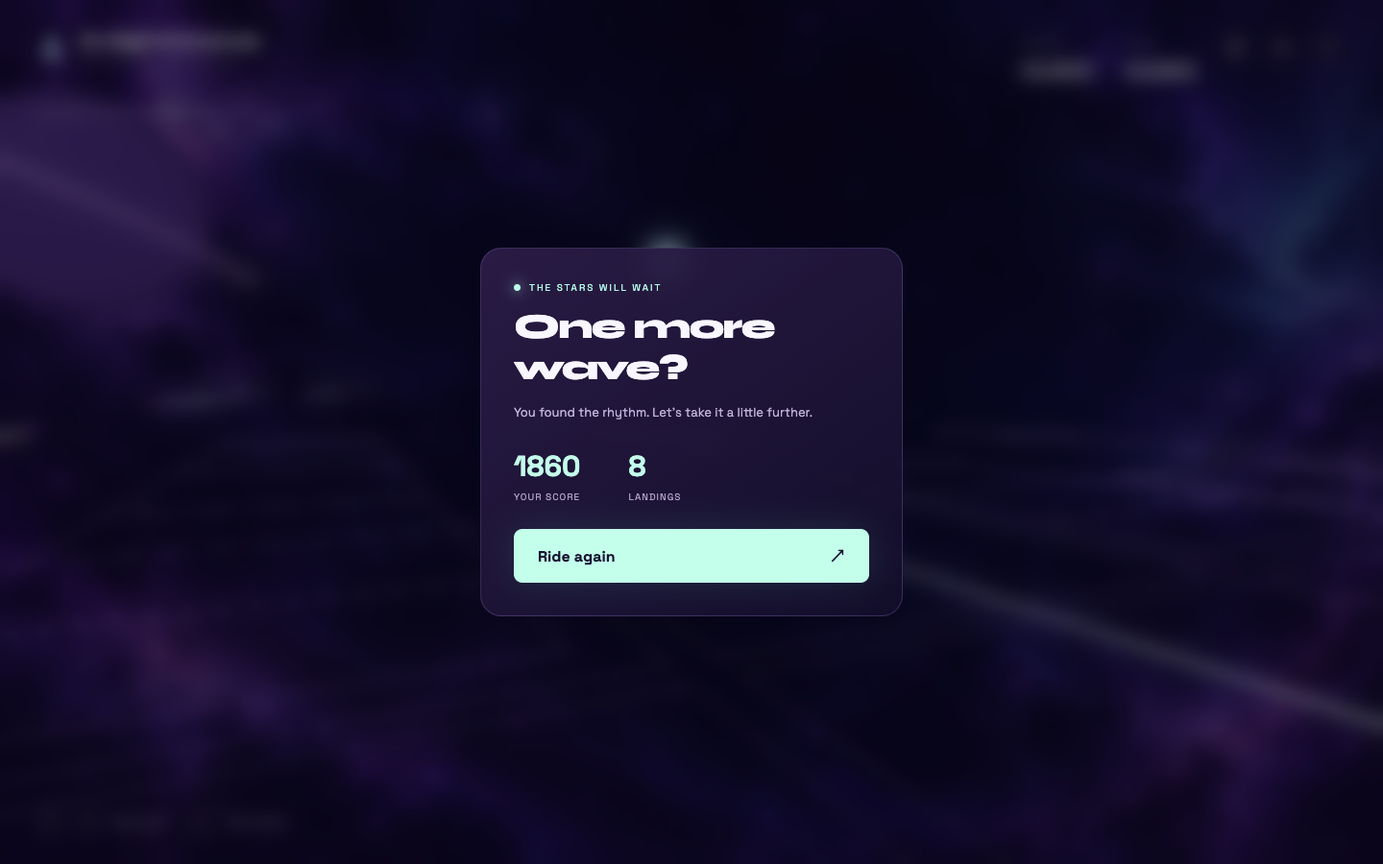
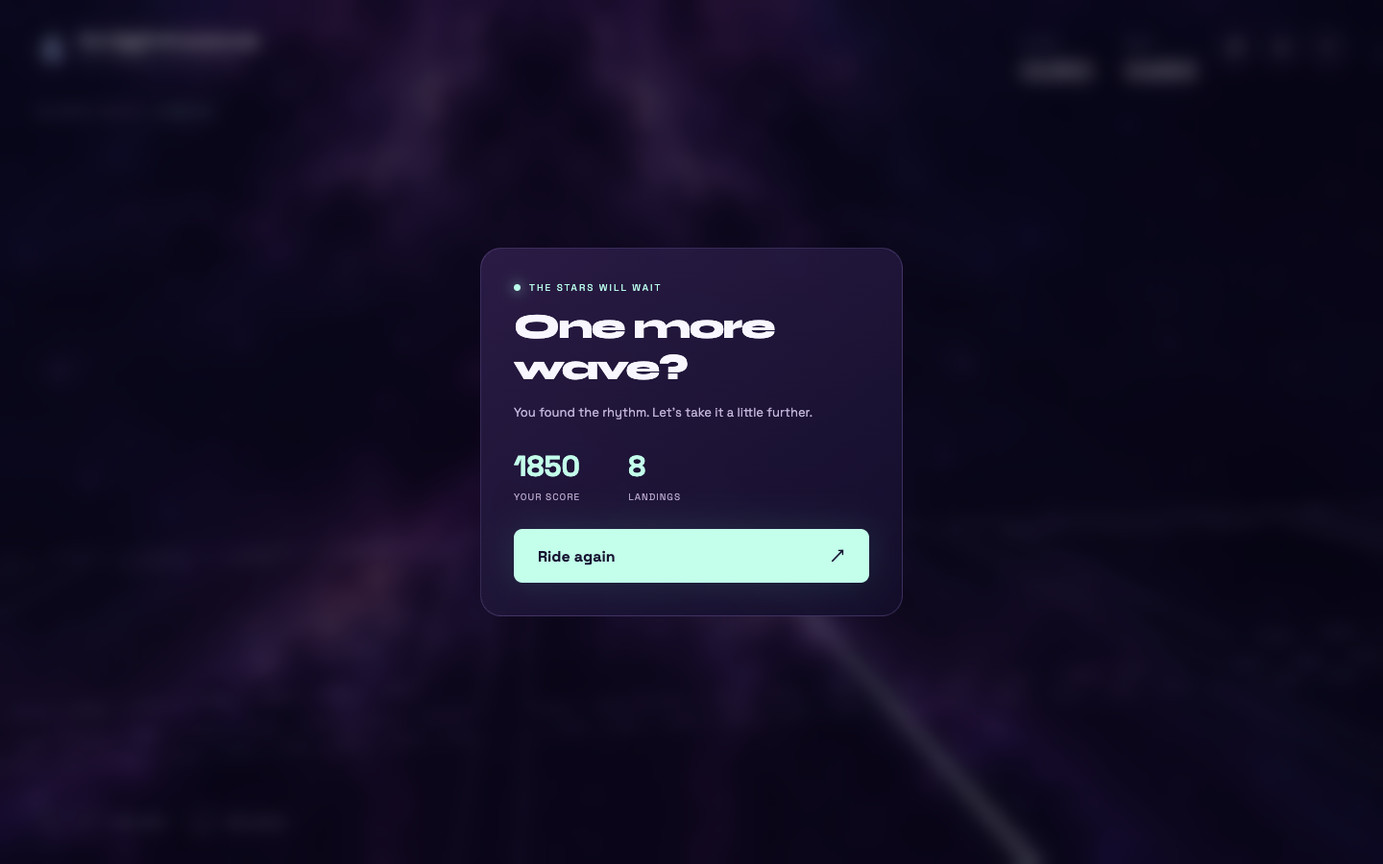
fix(game): align camera and roads with knight travel

diff --git a/src/main.js b/src/main.js
@@ -12,11 +12,10 @@ import { HemisphericLight } from '@babylonjs/core/Lights/hemisphericLight';
 import { PointLight } from '@babylonjs/core/Lights/pointLight';
 import { GlowLayer } from '@babylonjs/core/Layers/glowLayer';
 import { TransformNode } from '@babylonjs/core/Meshes/transformNode';
-import { Layer } from '@babylonjs/core/Layers/layer';
 import { Texture } from '@babylonjs/core/Materials/Textures/texture';
 import { ParticleSystem } from '@babylonjs/core/Particles/particleSystem';
 import earcut from 'earcut';
-import { knightDestination, isLandingMatch, targetForJump, knightPath, flightPoint } from './rules.js';
+import { knightDestination, isLandingMatch, targetForJump, knightPath, flightPoint, flightHeading, rotateGrid, roadLanding } from './rules.js';
 import { Soundtrack } from './audio.js';
 
 const asset=name=>`${import.meta.env.BASE_URL}${name}`;
@@ -38,7 +37,7 @@ try{engine=new Engine(canvas,true,{preserveDrawingBuffer:false,stencil:true,powe
 engine.setHardwareScalingLevel(1/Math.min(window.devicePixelRatio||1,2));
 scene.imageProcessingConfiguration.toneMappingEnabled=true;scene.imageProcessingConfiguration.exposure=.85;
 scene.clearColor=new Color4(.028,.014,.07,1);scene.fogMode=Scene.FOGMODE_EXP2;scene.fogColor=new Color3(.08,.025,.16);scene.fogDensity=.004;
-const camera=new FreeCamera('chase',new Vector3(0,7,-15),scene);camera.minZ=.1;camera.maxZ=1200;camera.fov=1.03;
+const camera=new FreeCamera('chase',new Vector3(0,7,-15),scene);camera.minZ=.1;camera.maxZ=1200;camera.fov=.88;
 const hemi=new HemisphericLight('soft light',new Vector3(-.4,1,-.4),scene);hemi.intensity=.65;hemi.diffuse=new Color3(.76,.83,1);hemi.groundColor=new Color3(.25,.08,.43);
 const rim=new PointLight('mint rim',new Vector3(0,8,-4),scene);rim.diffuse=new Color3(.3,1,.83);rim.intensity=.45;rim.range=38;
 const glow=new GlowLayer('neon',scene,{mainTextureRatio:.4,blurKernelSize:32});glow.intensity=.65;
@@ -48,7 +47,8 @@ const roadMats=palette.map((c,i)=>material('rainbow '+i,c,.25));
 const dark=material('underside','#211333',.15),stripe=material('chess tile','#e6cbff',.4),mint=material('mint neon','#8dffe1',1.6),pink=material('pink neon','#fd8bdf',1.5),gold=material('landing gold','#ffe6a3',1.5),white=material('porcelain','#e9fff5',.22),purple=material('mane','#583680',.3);
 
 // Dedicated sky artwork stays behind the 3D course and planets.
-const nebula=new Layer('cosmic artwork',asset('cosmic-sky.png'),scene,true);nebula.color=new Color4(.50,.44,.65,1);
+const sky=MeshBuilder.CreateSphere('world sky',{diameter:1800,segments:32,sideOrientation:Mesh.BACKSIDE},scene);
+const skyMat=new StandardMaterial('cosmic sky',scene);skyMat.disableLighting=true;skyMat.emissiveTexture=new Texture(asset('cosmic-sky.png'),scene);skyMat.emissiveColor=Color3.Black();skyMat.emissiveTexture.level=.55;skyMat.emissiveTexture.wrapU=Texture.MIRROR_ADDRESSMODE;skyMat.emissiveTexture.uScale=4;skyMat.emissiveTexture.wrapV=Texture.MIRROR_ADDRESSMODE;skyMat.emissiveTexture.vScale=3;skyMat.diffuseColor=Color3.Black();sky.material=skyMat;sky.infiniteDistance=true;sky.applyFog=false;sky.isPickable=false;glow.addExcludedMesh(sky);
 let seed=512;
 function rand(){seed=(seed*1664525+1013904223)>>>0;return seed/4294967296;}
 const planet=MeshBuilder.CreateSphere('lavender planet',{diameter:60,segments:32},scene);planet.material=material('planet','#604292',.4);planet.position.set(-92,52,300);
@@ -58,14 +58,41 @@ const halo=MeshBuilder.CreateTorus('moon halo',{diameter:28,thickness:.28,tessel
 const scenery=new TransformNode('cosmos',scene);planet.parent=planetRing.parent=moon.parent=halo.parent=scenery;
 function box(name,w,h,d,x,y,z,mat,parent){const m=MeshBuilder.CreateBox(name,{width:w,height:h,depth:d},scene);m.position.set(x,y,z);m.material=mat;if(parent)m.parent=parent;return m;}
 
-// A shallow, extruded silhouette: deliberately a chess cutout in a 3D world.
+// A slender porcelain chess knight, sculpted for every travel direction.
 const knight=new TransformNode('knight',scene),spinner=new TransformNode('spin',scene);spinner.parent=knight;
-const outline=[[-.65,.16],[.65,.16],[.65,.38],[.43,.55],[.50,.90],[.54,1.35],[.43,1.75],[.22,2.12],[.05,2.50],[-.02,2.95],[-.30,2.75],[-.64,2.88],[-.59,2.52],[-.88,2.22],[-1.12,1.85],[-.93,1.60],[-.51,1.64],[-.20,1.95],[-.12,1.54],[-.31,1.11],[-.52,.77],[-.39,.52],[-.65,.38]];
-function extrude(name,points,depth,mat,parent){const flat=points.flat(),tris=earcut(flat),positions=[],indices=[],n=points.length;for(const z of [-depth/2,depth/2])for(const p of points)positions.push(p[0],p[1],z);for(let i=0;i<tris.length;i+=3){indices.push(tris[i+2],tris[i+1],tris[i],tris[i]+n,tris[i+1]+n,tris[i+2]+n);}for(let i=0;i<n;i++){let j=(i+1)%n;indices.push(i,j,i+n,j,j+n,i+n);}const normals=[];VertexData.ComputeNormals(positions,indices,normals);const v=new VertexData();v.positions=positions;v.indices=indices;v.normals=normals;const m=new Mesh(name,scene);v.applyToMesh(m);m.material=mat;m.parent=parent;return m;}
+function extrude(name,points,depth,mat,parent){const flat=points.flat(),tris=earcut(flat),positions=[],indices=[],n=points.length;for(const z of [-depth/2,depth/2])for(const p of points)positions.push(p[0],p[1],z);for(let i=0;i<tris.length;i+=3){indices.push(tris[i+2],tris[i+1],tris[i],tris[i]+n,tris[i+1]+n,tris[i+2]+n);}for(let i=0;i<n;i++){let j=(i+1)%n;indices.push(i,j,i+n,j,j+n,i+n);}const normals=[];VertexData.ComputeNormals(positions,indices,normals);const v=new VertexData();v.positions=positions;v.indices=indices;v.normals=normals;const m=new Mesh(name,scene);v.applyToMesh(m);m.convertToFlatShadedMesh();m.material=mat;m.parent=parent;return m;}
 const FORWARD_YAW=Math.PI/2;
-const body=extrude('chess knight silhouette',outline,.64,white,spinner);body.position.y=.58;
-const mane=extrude('inlaid purple mane',[[.05,2.48],[.22,2.1],[.44,1.73],[.53,1.35],[.49,.94],[.35,.75],[.33,1.27],[.25,1.69],[-.03,2.17]],.665,purple,spinner);mane.position.y=.58;
-for(const z of [-.345,.345]){const eye=MeshBuilder.CreateSphere('onyx eye',{diameter:.105,segments:8},scene);eye.scaling.z=.35;eye.position.set(-.51,2.70,z);eye.material=purple;eye.parent=spinner;}
+// Sculpted elliptical sections give the horse a readable neck, muzzle and
+// paired ears from the rear camera as well as from the side during a turn.
+function sculpt(name,sections,axis){
+  const sides=32,positions=[],indices=[];
+  for(const [along,cx,cy,rx,ry] of sections)for(let i=0;i<sides;i++){
+    const angle=i/sides*Math.PI*2;
+    if(axis==='vertical')positions.push(cx+Math.cos(angle)*rx,along,cy+Math.sin(angle)*ry);
+    else positions.push(along,cx+Math.cos(angle)*rx,cy+Math.sin(angle)*ry);
+  }
+  for(let row=0;row<sections.length-1;row++)for(let i=0;i<sides;i++){
+    const a=row*sides+i,b=row*sides+(i+1)%sides,c=a+sides,d=b+sides;
+    indices.push(a,b,c,b,d,c);
+  }
+  for(const row of [0,sections.length-1])for(let i=1;i<sides-1;i++){
+    if(row===0)indices.push(row*sides,row*sides+i+1,row*sides+i);
+    else indices.push(row*sides,row*sides+i,row*sides+i+1);
+  }
+  const normals=[];VertexData.ComputeNormals(positions,indices,normals);
+  const data=new VertexData();data.positions=positions;data.indices=indices;data.normals=normals;
+  const mesh=new Mesh(name,scene);data.applyToMesh(mesh);mesh.material=white;mesh.parent=spinner;return mesh;
+}
+const neckSections=[[.65,0,0,.53,.48],[.9,.02,0,.50,.43],[1.25,.08,0,.43,.34],[1.65,.08,0,.36,.29],[2.0,-.03,0,.33,.31],[2.3,-.20,0,.30,.36],[2.55,-.25,0,.27,.37],[2.8,-.22,0,.23,.30],[2.96,-.22,0,.16,.22]];
+sculpt('carved chess knight neck',neckSections,'vertical');
+sculpt('sculpted horse muzzle',[[.15,2.78,0,.23,.28],[-.08,2.82,0,.36,.40],[-.38,2.73,0,.30,.38],[-.68,2.55,0,.22,.32],[-1.0,2.43,0,.17,.28],[-1.10,2.43,0,.12,.21]],'horizontal');
+const manePath=neckSections.slice(1).map(([y,x,z,rx])=>new Vector3(x+rx-.015,y,z));
+const mane=MeshBuilder.CreateTube('carved purple mane',{path:manePath,radius:.085,tessellation:12},scene);mane.material=purple;mane.parent=spinner;
+for(const side of [-1,1]){
+  const ear=MeshBuilder.CreateCylinder('pointed horse ear',{height:.48,diameterBottom:.27,diameterTop:.035,tessellation:12},scene);ear.parent=spinner;ear.material=white;ear.position.set(-.12,3.17,side*.25);ear.rotation.z=.18;ear.rotation.x=side*.16;
+  const eye=MeshBuilder.CreateSphere('onyx eye',{diameter:.12,segments:16},scene);eye.parent=spinner;eye.material=purple;eye.scaling.z=.4;eye.position.set(-.4,2.83,side*.365);
+  const nostril=MeshBuilder.CreateSphere('carved nostril',{diameter:.065,segments:12},scene);nostril.parent=spinner;nostril.material=purple;nostril.scaling.z=.4;nostril.position.set(-1.0,2.48,side*.27);
+}
 // Turned, stepped pedestal and collars make the silhouette unmistakably chess.
 const profile=[[0,0],[1.02,0],[1.06,.10],[1.02,.18],[.86,.21],[.86,.30],[.68,.37],[.61,.48],[.62,.55],[.77,.57],[.77,.66],[.57,.71],[0,.71]].map(([r,y])=>new Vector3(r,y,0));
 const base=MeshBuilder.CreateLathe('turned chess pedestal',{shape:profile,tessellation:64,cap:Mesh.CAP_ALL},scene);base.parent=spinner;base.material=white;
@@ -83,11 +110,11 @@ jumpSparkles.minSize=.16;jumpSparkles.maxSize=.55;jumpSparkles.minLifeTime=.22;j
 jumpSparkles.minEmitPower=2;jumpSparkles.maxEmitPower=5;jumpSparkles.gravity=new Vector3(0,-3,0);
 jumpSparkles.blendMode=ParticleSystem.BLENDMODE_ADD;jumpSparkles.emitRate=0;jumpSparkles.updateSpeed=.012;jumpSparkles.start();
 const burstPieces=[];for(let i=0;i<20;i++){const m=MeshBuilder.CreateSphere('landing sparkle',{diameter:.16,segments:5},scene);m.material=i%2?mint:gold;m.setEnabled(false);burstPieces.push({mesh:m,velocity:new Vector3(),life:0});}
-let roads=[],mode='start',phase='cruise',current=0,selected=0,jumpTime=0,phaseTime=0,runTime=0,score=0,combo=0,landings=0,spinAngle=0,visualSpin=0,spinJuice=0,flash=0,toastTimer=0,cruiseStart=0,tapKick=0,gapRoot=null,pathRoot=null,lastGuideKey='';
+let roads=[],mode='start',phase='cruise',current=0,selected=0,jumpTime=0,phaseTime=0,runTime=0,score=0,combo=0,landings=0,visualSpin=0,spinJuice=0,flash=0,toastTimer=0,roadProgress=22,airDuration=1.1,viewHeading=0,tapKick=0,gapRoot=null,pathRoot=null,lastGuideKey='';
 let best=0;try{best=Number(localStorage.getItem('knightwave-best')||0);}catch{}
 el('best').textContent=String(best).padStart(5,'0');
-const FLIGHT=1.28,SPEED=34,SCALE=8,ROAD_LENGTH=48;
-function buildRoad(index,x,z,target){const root=new TransformNode('rainbow road '+index,scene),length=ROAD_LENGTH;root.position.set(x,-.12,z+length/2);const start=z,end=z+length;
+const FLIGHT=1.1,SPEED=34,SCALE=8,ROAD_LENGTH=48;
+function buildRoad(index,x,z,target,heading=0){const root=new TransformNode('rainbow road '+index,scene),length=Math.abs(target)===3?SCALE:ROAD_LENGTH;const endOffset=rotateGrid({x:0,z:length},heading),end={x:x+endOffset.x,z:z+endOffset.z};
   box('violet deck',6.4,.32,length+3,0,-.18,-1.5,dark,root);
   roadMats.forEach((m,i)=>box('rainbow ribbon',.86,.10,length+3,(i-3)*.86,0,-1.5,m,root));
   box('left glow rail',.07,.06,length+3,-3.08,.1,-1.5,pink,root);box('right glow rail',.07,.06,length+3,3.08,.1,-1.5,mint,root);
@@ -99,20 +126,49 @@ function buildRoad(index,x,z,target){const root=new TransformNode('rainbow road 
   const arch=MeshBuilder.CreateTube('arched neon',{path:points,radius:.055,tessellation:10},scene);arch.material=index%2?pink:mint;arch.parent=gate;
   const ring=MeshBuilder.CreateTorus('landing circle',{diameter:2.9,thickness:.08,tessellation:48},scene);ring.position.set(0,.13,-length/2);ring.material=gold;ring.parent=root;
   const arrow=extrude('landing chevron',[[-.5,0],[0,.7],[.5,0],[.2,0],[0,.3],[-.2,0]],.03,mint,root);arrow.rotation.x=Math.PI/2;arrow.position.set(0,.10,-length/2+4);
-  const savedPosition=root.position.clone();root.position.setAll(0);root.computeWorldMatrix(true);
+  root.computeWorldMatrix(true);
   for(let rz=-length/2;rz<=length/2;rz+=SCALE)box('square divider',6.0,.02,.04,0,.08,rz,purple,root);
   const decorations=root.getChildMeshes().filter(m=>['chess shimmer','edge stud','square divider'].includes(m.name));
   for(const mat of [tileMaterial,gold,purple]){const group=decorations.filter(m=>m.material===mat);if(group.length>1){const merged=Mesh.MergeMeshes(group,true,true,undefined,false,false);merged.parent=root;merged.position.set(0,0,0);}}
-  root.position.copyFrom(savedPosition);root.computeWorldMatrix(true);
-  return {root,x,start,end,target,index,ring};
+  const center=rotateGrid({x:0,z:length/2},heading);root.position.set(x+center.x,-.05,z+center.z);root.rotation.y=heading;root.computeWorldMatrix(true);
+  return {root,x,z,end,heading,length,target,index,ring};
 }
 const tileMaterial=material('translucent chess squares','#efdbff',.12);tileMaterial.alpha=.21;
-function resetRoads(){roads.forEach(r=>r.root.dispose(false,false));roads=[];roads.push(buildRoad(0,0,-20,0));let x=0;for(let i=0;i<7;i++){let target=targetForJump(i),d=knightDestination(target);x+=d.x*SCALE;roads.push(buildRoad(i+1,x,roads.at(-1).end+d.z*SCALE,target));}}
-function extend(){const last=roads.at(-1),target=targetForJump(last.index),d=knightDestination(target);roads.push(buildRoad(last.index+1,last.x+d.x*SCALE,last.end+d.z*SCALE,target));if(roads.length>11){roads[0].root.dispose(false,false);roads.shift();current--;}}
-resetRoads();knight.position.set(0,.18,4);camera.position.set(12,7,-13);camera.setTarget(new Vector3(1.5,1.4,21));
+function resetRoads(){
+  roads.forEach(r=>r.root.dispose(false,false));roads=[buildRoad(0,0,-20,0)];
+  for(let i=0;i<7;i++){const target=targetForJump(i),p=roadLanding(roads.at(-1),target,SCALE);roads.push(buildRoad(i+1,p.x,p.z,target,p.heading));}
+}
+function extend(){
+  const last=roads.at(-1),target=targetForJump(last.index),p=roadLanding(last,target,SCALE);
+  roads.push(buildRoad(last.index+1,p.x,p.z,target,p.heading));
+  if(roads.length>11){roads[0].root.dispose(false,false);roads.shift();current--;}
+}
+function roadPoint(road,x,z){const p=rotateGrid({x,z},road.heading);return new Vector3(road.x+p.x,.035,road.z+p.z);}
+const wrapAngle=a=>Math.atan2(Math.sin(a),Math.cos(a));
+function updateCamera(dt,snap=false){
+  const r=roads[current],narrow=window.innerWidth<700;
+  const turnHeading=phase==='air'?flightHeading(selected,Math.min(.999,jumpTime/airDuration+.08)):0;
+  const desiredHeading=r.heading+turnHeading;
+  viewHeading+=wrapAngle(desiredHeading-viewHeading)*(snap?1:1-Math.exp(-dt*12));
+  const forward=new Vector3(Math.sin(viewHeading),0,Math.cos(viewHeading)),right=new Vector3(Math.cos(viewHeading),0,-Math.sin(viewHeading));
+  const distance=narrow?16:13,side=narrow?-3:-3.5;
+  const goal=knight.position.add(forward.scale(-distance)).add(right.scale(side));
+  goal.y=4.1+Math.max(0,knight.position.y-.035)*.55;
+  // Orbit and aim share the same heading; independent position easing causes
+  // the knight to leave the frame during a quick corner.
+  camera.position.copyFrom(goal);
+  const target=knight.position.add(forward.scale(narrow?6:9));target.y=1.25+Math.max(0,knight.position.y-.035)*.30;
+  camera.setTarget(target);
+  camera.rotation.z=0;
+}
+resetRoads();knight.position.set(0,.18,4);
 function visible(id,on){el(id).classList.toggle('hidden',!on);}
 function setMode(next){mode=next;el('ui').className=mode==='start'?'start-mode':'playing-mode';visible('start-screen',mode==='start');visible('pause',mode!=='start');visible('run-label',mode!=='start');visible('touch-controls',mode==='playing');}
-function start(){resetRoads();current=0;selected=0;score=0;combo=0;landings=0;runTime=0;jumpTime=0;phaseTime=0;phase='cruise';spinAngle=visualSpin=0;spinner.rotation.set(0,FORWARD_YAW,0);tapKick=0;jumpSparkles.reset();jumpSparkles.start();knight.position.set(0,.16,2);cruiseStart=2;el('score').textContent='00000';visible('modal',false);setMode('playing');audio.start().catch(()=>{});lastGuideKey='';updateGuides();camera.position.set(-7,2.6,knight.position.z-10);camera.setTarget(new Vector3(0,1.1,knight.position.z+10));}
+function start(){
+  resetRoads();current=0;selected=0;score=0;combo=0;landings=0;runTime=0;jumpTime=0;phaseTime=0;phase='cruise';visualSpin=0;viewHeading=0;
+  spinner.rotation.set(0,FORWARD_YAW,0);tapKick=0;jumpSparkles.reset();jumpSparkles.start();roadProgress=22;airDuration=FLIGHT;knight.position.copyFrom(roadPoint(roads[0],0,roadProgress));
+  el('score').textContent='00000';visible('modal',false);setMode('playing');audio.start().catch(()=>{});lastGuideKey='';updateGuides();updateCamera(0,true);
+}
 function toast(title,sub,duration=.9){el('toast').innerHTML=`${title}<small>${sub}</small>`;visible('toast',true);toastTimer=duration;}
 function updateGuides(){
   if(mode!=='playing')return;
@@ -123,10 +179,10 @@ function updateGuides(){
 }
 function turn(dir){
   if(mode!=='playing'||phase==='fall')return;
-  selected+=dir;spinAngle+=dir*Math.PI/2;spinJuice=1;tapKick=dir*.32;
+  selected+=dir;spinJuice=1;tapKick=dir*.32;
   // Apply feedback in the input handler, before the next animation frame.
-  if(phase==='air'){visualSpin+=dir*.80;spinner.rotation.y=FORWARD_YAW+visualSpin;}
-  else{spinner.rotation.y=FORWARD_YAW+tapKick;spinner.rotation.z=-dir*.12;}
+  if(phase==='air'){visualSpin+=dir*.80;spinner.rotation.y=FORWARD_YAW+roads[current].heading+visualSpin;}
+  else{spinner.rotation.y=FORWARD_YAW+roads[current].heading+tapKick;spinner.rotation.z=-dir*.12;}
   audio.spin(selected);updateGuides();
   const button=el(dir<0?'left':'right');button.classList.add('pressed');setTimeout(()=>button.classList.remove('pressed'),90);
 }
@@ -155,7 +211,7 @@ function drawGapGuides(){
   const r=roads[current];
   if(gapRoot?.metadata?.index!==r.index){
     gapRoot?.dispose(false,false);gapRoot=new TransformNode('hollow chess lanes',scene);gapRoot.metadata={index:r.index};
-    gapRoot.position.set(r.x,.015,r.end);
+    gapRoot.position.set(r.end.x,.015,r.end.z);gapRoot.rotation.y=r.heading;
     const lines=[];
     for(let x=-3;x<=3;x++)for(let z=-1;z<=2;z++){
       const cx=x*SCALE,cz=z*SCALE,h=SCALE*.47;
@@ -166,52 +222,49 @@ function drawGapGuides(){
     for(const n of [-3,-2,-1,1,2,3]){
       if(n===roads[current+1].target)continue;
       const d=knightDestination(n),x=d.x*SCALE,z=d.z*SCALE;
-      laneLines.push([new Vector3(x-3,0,z-3),new Vector3(x-3,0,z+28),new Vector3(x+3,0,z+28),new Vector3(x+3,0,z-3),new Vector3(x-3,0,z-3)]);
-      for(let dz=0;dz<=24;dz+=SCALE)laneLines.push([new Vector3(x-3,0,z+dz),new Vector3(x+3,0,z+dz)]);
+      laneLines.push([new Vector3(x-3,0,z-3),new Vector3(x-3,0,z+3),new Vector3(x+3,0,z+3),new Vector3(x+3,0,z-3),new Vector3(x-3,0,z-3)]);
     }
     const lanes=MeshBuilder.CreateLineSystem('possible road outlines',{lines:laneLines},scene);lanes.color=Color3.FromHexString('#ba9bdd');lanes.alpha=.38;lanes.parent=gapRoot;
   }
-  pathRoot?.dispose(false,false);pathRoot=new TransformNode('chosen L trajectory',scene);pathRoot.position.copyFrom(gapRoot.position);
+  pathRoot?.dispose(false,false);pathRoot=new TransformNode('chosen L trajectory',scene);pathRoot.position.copyFrom(gapRoot.position);pathRoot.rotation.y=r.heading;
   const points=(selected===0?[{x:0,z:0},{x:0,z:2}]:knightPath(selected)).map(p=>new Vector3(p.x*SCALE,.045,p.z*SCALE));
   const route=MeshBuilder.CreateTube('knight move trace',{path:points,radius:.035,tessellation:6},scene);route.material=mint;route.parent=pathRoot;
   for(let i=0;i<points.length;i++){const p=points[i];const marker=MeshBuilder.CreateTorus('L corner marker',{diameter:i===points.length-1?1.0:.55,thickness:.055,tessellation:32},scene);marker.material=mint;marker.position.copyFrom(p);marker.parent=pathRoot;}
 }
-function chosenLanding(){const r=roads[current],d=selected===0?{x:0,z:2}:knightDestination(selected);return new Vector3(r.x+d.x*SCALE,.18,r.end+d.z*SCALE);}
+function chosenLanding(){const r=roads[current],d=rotateGrid(selected===0?{x:0,z:2}:knightDestination(selected),r.heading);return new Vector3(r.end.x+d.x*SCALE,.035,r.end.z+d.z*SCALE);}
 function burst(){for(let i=0;i<burstPieces.length;i++){const p=burstPieces[i];p.mesh.position.copyFrom(knight.position);p.mesh.position.y+=.2;p.velocity.set((rand()-.5)*9,rand()*7+2,(rand()-.5)*9);p.life=.7;p.mesh.setEnabled(true);}}
 function update(dt){
   jumpSparkles.emitRate=mode==='playing'&&phase==='air'?210+spinJuice*180:0;
   if(mode==='playing'){
     runTime+=dt;phaseTime+=dt;spinJuice=Math.max(0,spinJuice-dt*4);tapKick*=Math.exp(-dt*14);
     if(phase==='cruise'){
-      const r=roads[current];knight.position.z+=SPEED*Math.min(1.35,1+landings*.012)*dt;knight.position.x=r.x;knight.position.y=.18+Math.sin(runTime*19)*.035;
-      spinner.rotation.y=FORWARD_YAW+tapKick;spinner.rotation.z=-tapKick*.25;spinner.rotation.x=-.045;
-      if(knight.position.z>=r.end){knight.position.z=r.end;phase='air';jumpTime=0;phaseTime=0;visualSpin=0;burst();}
+      const r=roads[current];roadProgress+=SPEED*Math.min(1.35,1+landings*.012)*dt;knight.position.copyFrom(roadPoint(r,0,Math.min(roadProgress,r.length)));knight.position.y=.035+Math.sin(runTime*19)*.012;
+      spinner.rotation.y=FORWARD_YAW+roads[current].heading+tapKick;spinner.rotation.z=-tapKick*.25;spinner.rotation.x=-.045;
+      if(roadProgress>=r.length){phase='air';jumpTime=0;airDuration=FLIGHT+.28*(Math.abs(roads[current+1].target)-1);phaseTime=0;visualSpin=0;burst();}
     }else if(phase==='air'){
-      jumpTime+=dt;const t=Math.min(1,jumpTime/FLIGHT),p=flightPoint(selected,t),r=roads[current];
-      const desiredX=r.x+p.x*SCALE,desiredZ=r.end+p.z*SCALE;
+      jumpTime+=dt;const t=Math.min(1,jumpTime/airDuration),r=roads[current],p=rotateGrid(flightPoint(selected,t),r.heading);
+      const desiredX=r.end.x+p.x*SCALE,desiredZ=r.end.z+p.z*SCALE;
       knight.position.x+=(desiredX-knight.position.x)*Math.min(1,dt*35);knight.position.z+=(desiredZ-knight.position.z)*Math.min(1,dt*35);
-      knight.position.y=.18+Math.sin(t*Math.PI)*3.65+Math.sin(t*Math.PI)*spinJuice*.35;
-      visualSpin+=(spinAngle-visualSpin)*Math.min(1,dt*19);spinner.rotation.y=FORWARD_YAW+visualSpin;
+      knight.position.y=.035+Math.sin(t*Math.PI)*3.65+Math.sin(t*Math.PI)*spinJuice*.35;
+      const motionHeading=flightHeading(selected,t);
+      visualSpin+=wrapAngle(motionHeading-visualSpin)*(1-Math.exp(-dt*24));spinner.rotation.y=FORWARD_YAW+roads[current].heading+visualSpin;
       spinner.rotation.z=Math.sin(t*Math.PI)*.10*Math.sign(selected);spinner.rotation.x=Math.sin(t*Math.PI)*.16;
       if(t===1){
         knight.position.copyFrom(chosenLanding());
         if(isLandingMatch(selected,roads[current+1].target)){
           current++;landings++;combo++;score+=100+combo*25+Math.abs(selected)*10;el('score').textContent=String(score).padStart(5,'0');
           burst();flash=1;audio.land(combo);toast(''+combo+'× flow','+'+(100+combo*25+Math.abs(selected)*10),.55);
-          phase='cruise';phaseTime=0;cruiseStart=knight.position.z;selected=0;spinAngle=visualSpin=0;spinner.rotation.y=FORWARD_YAW;extend();updateGuides();
+          phase='cruise';phaseTime=0;roadProgress=0;selected=0;visualSpin=0;spinner.rotation.y=FORWARD_YAW+roads[current].heading;extend();updateGuides();
         }else{phase='fall';phaseTime=0;combo=0;audio.fall();landingPreview.setEnabled(false);previewBeam.setEnabled(false);}
       }
     }else if(phase==='fall'){knight.position.y-=dt*(5+phaseTime*14);spinner.rotation.z+=dt*1.7;if(phaseTime>1.05)finish();}
     if(phase!=='fall'){
-      const show=phase==='air'||roads[current].end-knight.position.z<36;
+      const show=phase==='air'||roads[current].length-roadProgress<36;
       landingPreview.setEnabled(show);previewBeam.setEnabled(show);gapRoot?.setEnabled(show);pathRoot?.setEnabled(show);
       if(show){const dest=chosenLanding();landingPreview.position.copyFrom(dest);landingPreview.position.y=.04;previewBeam.position.copyFrom(dest);previewBeam.position.y=1.2;landingPreview.scaling.setAll(1+audio.pulse*.06);}
     }
-    const narrow=window.innerWidth<700;
-    const goal=new Vector3(knight.position.x-7,2.6+Math.max(0,knight.position.y-.18)*.75,knight.position.z-(narrow?12:10));
-    Vector3.LerpToRef(camera.position,goal,1-Math.exp(-dt*11),camera.position);
-    camera.setTarget(new Vector3(knight.position.x+(narrow?2.4:2.5),1.15+Math.max(0,knight.position.y-.18)*.65,knight.position.z+(narrow?6:10)));
-    scenery.position.z=knight.position.z*.92;rim.position.set(knight.position.x-2,knight.position.y+5,knight.position.z-3);
+    updateCamera(dt);
+    scenery.position.set(knight.position.x*.9,0,knight.position.z*.9);rim.position.set(knight.position.x-2,knight.position.y+5,knight.position.z-3);
   }else if(mode==='start'){
     const t=performance.now()*.001;knight.position.y=.25+Math.sin(t*2)*.10;spinner.rotation.y=FORWARD_YAW+Math.sin(t*.5)*.035;
     if(window.innerWidth<700&&window.innerHeight>550){camera.position.set(-8,5.8,-10);camera.setTarget(new Vector3(7,3.0,20));}
@@ -219,8 +272,8 @@ function update(dt){
   }
   if(mode==='playing'||mode==='start'){
     glow.intensity=.47+audio.pulse*.10;planetRing.rotation.y+=dt*.03;
-    shadow.position.set(knight.position.x,.01,knight.position.z);shadow.scaling.setAll(Math.max(.4,1-(knight.position.y-.18)*.08));shadow.setEnabled(phase!=='fall');
-    for(const r of roads)r.ring.scaling.setAll(1+Math.sin(runTime*3+r.index)*.05);
+    shadow.position.set(knight.position.x,.005,knight.position.z);shadow.scaling.setAll(Math.max(.4,1-(knight.position.y-.035)*.08));shadow.setEnabled(phase!=='fall');
+    for(const r of roads){r.ring.scaling.setAll(1+Math.sin(runTime*3+r.index)*.05);r.root.setEnabled(mode==='start'?r.index<3:r===roads[current]||r===roads[current+1]);}
     for(const p of burstPieces){if(p.life>0){p.life-=dt;p.mesh.position.addInPlace(p.velocity.scale(dt));p.velocity.y-=dt*13;p.mesh.scaling.setAll(Math.max(0,p.life/.7));if(p.life<=0)p.mesh.setEnabled(false);}}
     if(toastTimer>0){toastTimer-=dt;if(toastTimer<=0)visible('toast',false);}
     flash=Math.max(0,flash-dt*3.5);el('flash').style.opacity=flash*.45;
@@ -228,7 +281,7 @@ function update(dt){
 }
 engine.runRenderLoop(()=>{update(Math.min(engine.getDeltaTime()/1000,.05));scene.render();});
 scene.executeWhenReady(()=>{visible('loading',false);});
-const state=()=>({mode,phase,selected,target:roads[current+1]?.target,jump:landings+1,score,combo,landings,position:{x:knight.position.x,y:knight.position.y,z:knight.position.z},takeoff:roads[current]?.end,airtime:jumpTime/FLIGHT,audio:{state:audio.ctx?.state,muted:audio.muted,steps:audio.step},fps:Math.round(engine.getFps()),meshes:scene.meshes.length,speed:SPEED,cellSize:SCALE,launch:{x:roads[current]?.x,z:roads[current]?.end},landing:{x:roads[current+1]?.x,z:roads[current+1]?.start},render:{width:engine.getRenderWidth(),height:engine.getRenderHeight()},camera:{x:camera.position.x,y:camera.position.y,z:camera.position.z},knightYaw:spinner.rotation.y,sparkles:jumpSparkles.getActiveCount()});
+const state=()=>({mode,phase,selected,target:roads[current+1]?.target,jump:landings+1,score,combo,landings,position:{x:knight.position.x,y:knight.position.y,z:knight.position.z},takeoff:Math.max(0,roads[current]?.length-roadProgress),airtime:jumpTime/airDuration,audio:{state:audio.ctx?.state,muted:audio.muted,steps:audio.step},fps:Math.round(engine.getFps()),meshes:scene.meshes.length,speed:SPEED,cellSize:SCALE,heading:roads[current]?.heading,landingHeading:roads[current+1]?.heading,viewHeading,launch:roads[current]?.end,landing:{x:roads[current+1]?.x,z:roads[current+1]?.z},render:{width:engine.getRenderWidth(),height:engine.getRenderHeight()},camera:{x:camera.position.x,y:camera.position.y,z:camera.position.z},knightYaw:spinner.rotation.y,sparkles:jumpSparkles.getActiveCount()});
 // Observability for playtesting; actions are the same as keyboard and touch.
 window.knightwave={state,start,turn,pause,resume,mute,engine,scene};
 if(document.modelContext?.registerTool){

diff --git a/src/rules.test.js b/src/rules.test.js
@@ -1,6 +1,6 @@
 import { test } from 'node:test';
 import assert from 'node:assert/strict';
-import { knightDestination, isLandingMatch, targetForJump, knightPath, flightPoint } from './rules.js';
+import { knightDestination, isLandingMatch, targetForJump, knightPath, flightPoint, rotateGrid, roadLanding } from './rules.js';
 test('chained right knight moves rotate through a loop and return home', () => {
   assert.deepEqual([0,1,2,3,4,5].map(knightDestination), [{x:0,z:0},{x:1,z:2},{x:3,z:1},{x:2,z:-1},{x:0,z:0},{x:1,z:2}]);
 });
@@ -25,5 +25,17 @@ test('multi-turn paths and landings agree, including a full loop and corrections
     assert.deepEqual(knightPath(steps).at(-1),knightDestination(steps));
     const p=flightPoint(steps,1),expected=knightDestination(steps);
     assert.ok(Math.abs(p.x-expected.x)<1e-8&&Math.abs(p.z-expected.z)<1e-8);
+  }
+});
+test('every rotated landing road continues in the direction of the final knight leg',()=>{
+  for(const heading of [0,Math.PI/2,Math.PI,3*Math.PI/2])for(const steps of [-3,-2,-1,1,2,3]){
+    const road={end:{x:24,z:-16},heading},next=roadLanding(road,steps);
+    const path=knightPath(steps),a=path.at(-2),b=path.at(-1);
+    const tangent=rotateGrid({x:b.x-a.x,z:b.z-a.z},heading);
+    const forward=rotateGrid({x:0,z:1},next.heading);
+    assert.deepEqual(tangent,forward);
+    const offset=rotateGrid(knightDestination(steps),heading);
+    assert.equal(next.x,road.end.x+offset.x*8);
+    assert.equal(next.z,road.end.z+offset.z*8);
   }
 });

diff --git a/src/rules.js b/src/rules.js
@@ -11,6 +11,16 @@ export function knightDestination(steps) {
   return { x, z };
 }
 export const positiveMod = (n, d) => ((n % d) + d) % d;
+// World coordinates for a road's local chess grid. A quarter turn changes
+// both the next road's direction and the coordinate frame of its next jump.
+export function rotateGrid(point, heading) {
+  const c=Math.round(Math.cos(heading)),s=Math.round(Math.sin(heading));
+  return {x:point.x*c+point.z*s||0,z:point.z*c-point.x*s||0};
+}
+export function roadLanding(road, steps, cellSize=8) {
+  const offset=rotateGrid(knightDestination(steps),road.heading);
+  return {x:road.end.x+offset.x*cellSize,z:road.end.z+offset.z*cellSize,heading:road.heading+steps*Math.PI/2};
+}
 export function isLandingMatch(actual, target) {
   const a = knightDestination(actual), b = knightDestination(target);
   return a.x === b.x && a.z === b.z;
@@ -53,4 +63,10 @@ export function flightPoint(steps, progress) {
     distance -= lengths[i];
   }
   return path.at(-1);
+}
+
+export function flightHeading(steps, progress) {
+  const a=flightPoint(steps,Math.max(0,Math.min(1,progress)-.002));
+  const b=flightPoint(steps,Math.min(1,Math.max(0,progress)+.002));
+  return Math.atan2(b.x-a.x,b.z-a.z);
 }

diff --git a/README.md b/README.md
@@ -1,6 +1,6 @@
 # Knightwave
 
-A playable Babylon.js arcade runner: a porcelain chess-knight cutout, floating rainbow chessboard roads, chained L-shaped jump rotations, and an original euphoric 160 BPM soundtrack.
+A playable Babylon.js arcade runner: a sculpted porcelain chess knight, floating rainbow chessboard roads, chained L-shaped jump rotations, and an original euphoric 160 BPM soundtrack.
 
 ## Open in your browser
 
@@ -20,7 +20,7 @@ Open the printed local URL. `npm run build` produces the standalone browser game
 - The knight cruises and jumps automatically.
 - The solid rainbow road is your destination. Hollow outlines show other lanes, and the mint L-shaped trace shows your selected route. There is no tap-count overlay.
 - Tap Left/Right or A/D at any time, including during the jump. Early inputs are buffered for takeoff and give immediate visual feedback. On a phone, tap the left/right half of the play area or the visible turn buttons.
-- Each tap adds a quarter-turn and chains a rotated chess knight move. Right destinations in chessboard units are `(1,2)`, `(3,1)`, `(2,-1)`, then `(0,0)`. Left mirrors the horizontal coordinate.
+- Each tap adds a quarter-turn and chains a rotated chess knight move. Right destinations in chessboard units are `(1,2)`, `(3,1)`, `(2,-1)`, then `(0,0)`. Left mirrors the horizontal coordinate. These coordinates use the current road’s direction; the landing road turns into the final leg, and the following jump uses that new direction.
 - Opposite taps undo turns. The mint ring previews the current landing. You can correct until touchdown.
 - Space starts/pauses; Escape pauses/resumes; M toggles sound. A missed landing ends the run, with immediate retry.
 - The opening six jumps teach one, two, then three taps in both directions. Later jumps mix these, with a gradual cruise speed increase.
@@ -28,7 +28,9 @@ Open the printed local URL. `npm run build` produces the standalone browser game
 
 ## Graphics and audio
 
-The forward-facing knight is a custom extruded polygon mesh with an inlaid mane, eyes, turned chess pedestal, stepped collars and glowing rim. The chase camera rides low behind it. Cruising speed is 34 world units per second, twice the original version, and rendering uses the display pixel ratio up to 2×. It is not a font glyph or emoji. The road, arches, planets and landing previews are real Babylon.js geometry. Jump sparkles use a dedicated star texture and a particle system. The whole course uses eight-unit chess squares; landing anchors equal the knight-move coordinates with no additional forward gap, and jumps trace each L-shaped leg. The mark and favicon are hand-drawn SVG assets.
+The forward-facing knight is a real mesh sculpted from elliptical neck and muzzle sections, with paired ears, eyes, carved mane, turned chess pedestal, stepped collars and glowing rim. Its orientation follows the actual L-shaped motion. The camera rides behind the travel direction, eases its heading through corners, keeps the horizon level, and uses one orbit for both position and aim so turns cannot pull the knight out of the frame. Cruising speed is 34 world units per second, and rendering uses the display pixel ratio up to 2×. Jump sparkles use a dedicated star texture and particle system.
+
+The course uses eight-unit chess squares. Landing anchors and road headings match the final knight move. Three-turn landings use short connectors to avoid crossing the departure road. The hollow landing outlines, path, actual flight and roads share the same coordinate frame. The sky artwork maps onto a world-space dome with mirrored wrapping; its features turn with the camera. The mark and favicon are hand-drawn SVG assets.
 
 `public/cosmic-sky.png` is an original background created with the built-in imagegen tool. Prompt: “Use case: stylized-concept. Asset type: seamless-looking panoramic cosmic sky background texture for a neon rainbow-road 3D arcade game. Create a premium game art starfield, landscape 3:2 composition. Deep midnight navy and aubergine space, delicate faraway stars as fine pinpoints, flowing violet and lavender nebula clouds with a tiny soft teal aurora on the right, subtly shimmering dust. Rich, dreamy, euphoric and uplifting, painterly atmospheric sci-fi game skybox art. Keep overall dark and low contrast so the bright gameplay road reads clearly. Nebula details strongest at outer edges, quieter spacious center. No planets, no road, no characters, no chess pieces, no foreground objects, no typography, no UI, no watermark. Intended to be placed behind separately rendered 3D planets and game graphics.”
 
@@ -36,11 +38,13 @@ The original soundtrack, *Stardust Overdrive*, is synthesized in Web Audio: four
 
 ## Verification
 
-`npm test` checks chained knight movement, mirrored turns, correction equivalence, introductory progression, exact L-shaped trajectories and agreement between paths and landing coordinates.
+`npm test` checks chained knight movement, mirrored turns, correction equivalence, introductory progression, exact L-shaped trajectories and agreement between paths and landing coordinates, and landing-road direction matching the final leg in all four world orientations.
 
-`node verify.mjs` runs Chrome browser playtesting (the executable path currently targets macOS): eight consecutive jumps, an overspin corrected in midair, pause/resume during a jump, mute/unmute, a deliberate miss, restart, help, and two touch-controlled phone jumps. It also checks early input acceptance, removal of the tap-count overlay, lower camera height, forward orientation, sparkles, exact road spacing and high-resolution phone rendering. `node mobilecheck.mjs` checks phone screenshots, the header controls staying in the viewport, touch landing, same-event input feedback without a frame wait, pause/resume and landscape layout. These use the same input handlers as play.
+`node verify.mjs` runs Chrome browser playtesting (the executable path currently targets macOS): eight consecutive jumps, an overspin corrected in midair, pause/resume during a jump, mute/unmute, a deliberate miss, restart, help, and two touch-controlled phone jumps. It also checks early input acceptance, removal of the tap-count overlay, camera height, forward orientation, sparkles, exact rotated road spacing, nonintersecting road decks and high-resolution phone rendering. `node mobilecheck.mjs` checks phone screenshots, the header controls staying in the viewport, touch landing, same-event input feedback without a frame wait, pause/resume and landscape layout. These use the same input handlers as play.
 
-Visually inspected desktop start, midair and game-over views, plus 390×844 phone start, airtime and pause, and 844×390 landscape. Revised washed-out lighting, title clipping, logo glyph, crowded phone header, and phone camera framing based on screenshots. The current version also removes center guidance, lowers the camera, doubles cruising speed, adds outlined lanes and airborne sparkles, raises rendering resolution, and accepts taps immediately. Browser tests reported no page exceptions. Desktop gameplay measured approximately 60 FPS on the test machine; phone-sized emulation approximately 44–60 FPS. These measurements are not physical-phone benchmarks.
+`node visualcheck.mjs` plays six jumps on desktop and six using phone controls, records videos, and captures launch, middle and landing frames for single and multiple turns in both directions. Every animation frame is checked for knight clipping, a level horizon, and the landing remaining visible immediately before touchdown. Captures and a JSON report go to `/tmp/knightwave-visual`. Set `KNIGHTWAVE_URL` to test the public game instead of the local development server, for this script or `verify.mjs`.
+
+Visually reviewed desktop and phone sequences throughout flight, plus the start, game-over, pause and landscape layouts. The 3D revision corrects mismatched road and knight directions, replaces the edge-on slab with a sculpted horse, removes the independent camera easing that clipped the knight during turns, maps the sky into world space, and prevents intersecting departure/landing decks. Browser tests report no page exceptions. Phone browser emulation is not a physical-device benchmark.
 
 Optional WebMCP state and rotation tools are feature-detected. This browser does not expose a supported WebMCP context, so WebMCP integration validation is unavailable.
 
